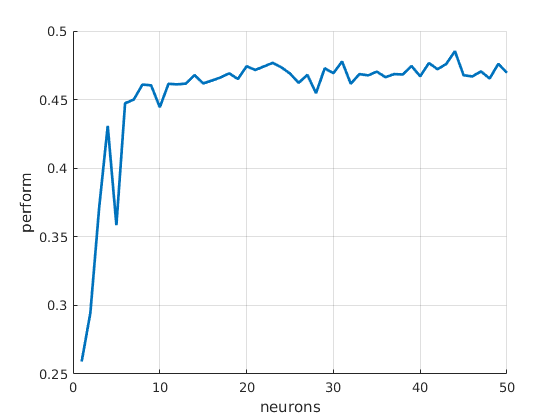
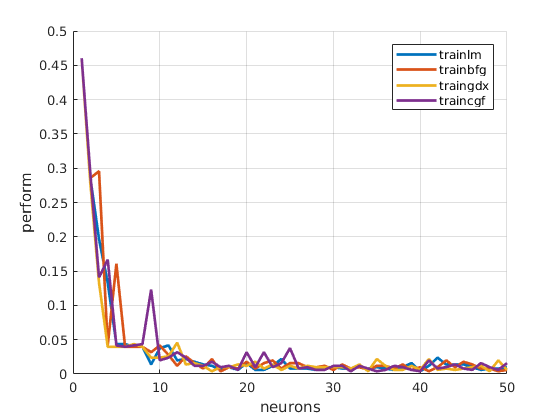
defuq

diff --git a/lab3/report/lab3.tex b/lab3/report/lab3.tex
@@ -276,7 +276,7 @@ E = \begin{bmatrix}
 			\code{delta = 0.01} \\
 			\code{gama = 0.1} \\
 			\code{low_lim = 0.1} \\
-			\code{up_lim = 0.5} \\
+			\code{up_lim = 0.8} \\
 			\code{max_step = 100} \\
 			\code{min_step = 1.0e-6} \\
 			\code{bmax = 26} \\
@@ -360,7 +360,7 @@ E = \begin{bmatrix}
 
 Для разных функций обучения (\code{trainlm}, \code{trainbfg}, \code{traingdx}, \code{traincgf}) определим оптимальное число нейронов в скрытом слое (слоях), настройте параметры функций обучения, обучите НС, вычислим ошибку классфификации.
 
-На рис. \ref{fig:3_2_1} изображена зависимость ошибки от числа нейронов в скрытом слое.
+На рис. \ref{fig:3_2_1} изображена зависимость ошибки от числа нейронов в скрытом слое для различных функций обучения.
 \begin{figure}[H]
 \begin{center}
 	\includegraphics[scale=0.88]{3_2_1}
@@ -368,43 +368,102 @@ E = \begin{bmatrix}
 	\label{fig:3_2_1}
 \end{center}
 \end{figure}
-
+Из графика видно, что оптимальным для каждой функции обучения является около $30$ нейронов. Будем изменять параметры функций обучения при этом количестве нейронов во внутреннем слое. На рис. В таблице \ref{fig:3_2} приведены примеры получаемых разбиений. 
+\begin{figure}[H]
+\begin{center}
+	\begin{subfigure}[b]{0.49\textwidth}
+		\includegraphics[width=1\textwidth, height=6cm]{3_2_2}
+		\caption{Хорошее}
+	\end{subfigure}
+	\begin{subfigure}[b]{0.49\textwidth}
+		\includegraphics[width=1\textwidth, height=6cm]{3_2_3}
+		\caption{Плохое}
+	\end{subfigure}
+	\caption{Примеры разбиений}
+	\label{fig:3_2}
+\end{center}
+\end{figure}
+В таблице \ref{tab:3_2_1} приведены сводные результаты для разных алгоритмов обучения.
 \begin{table}[H]
 \begin{center}
 	\def\tabcolsep{15pt}
-	\caption{Градиентные алгоритмы}
-	\label{tab:2_6_1}
+	\caption{Различные функции обучения}
+	\label{tab:3_2_1}
 	\begin{tabular}{|c|c|c|c|}
 		\hline
 		Функция & Параметры & Ошибка & Число эпох \\
 		\hline
 		\hline
-		\code{traingda} & \makecell{
-			\code{lr = 0.01} \\ 
-			\code{lr_inc = 1.05} \\ 
-			\code{lr_dec = 0.7} \\
-			\code{max_perf_inc  = 1.04}} & 0.0059 & 132 \\
+		\code{trainlm} & \makecell{
+			\code{mu = 0.01} \\ 
+			\code{mu_dec = 0.01} \\ 
+			\code{mu_inc = 100} \\
+			\code{mu_max = 1e10}} & 0.0079 & 66 \\
 		\hline
-		\code{traingdm} & \makecell{
-			\code{lr = 0.02} \\ 
-			\code{mc = 0.8}} & 0.0106 & 2000 \\
+		\code{trainbfg} & \makecell{
+			\code{searchFcn = 'srchbac'} \\
+			\code{scale_tol = 20} \\
+			\code{alpha = 0.01} \\
+			\code{beta = 0.1} \\
+			\code{delta = 0.01} \\
+			\code{gama = 0.1} \\
+			\code{low_lim = 0.2} \\
+			\code{up_lim = 0.5} \\
+			\code{max_step = 100} \\
+			\code{min_step = 1.0e-6} \\
+			\code{bmax = 26} \\
+			\code{batch_frag = 0}} & 0.0040 & 61 \\
 		\hline
 		\code{traingdx} & \makecell{
-			\code{lr = 0.01} \\ 
-			\code{mc = 0.8} \\
-			\code{lr_inc = 1.05} \\ 
-			\code{lr_dec = 0.7} \\
-			\code{max_perf_inc  = 1.02}} & 0.0017 & 175 \\
+			\code{lr = 0.05} \\
+			\code{mc = 0.5} \\
+			\code{lr_inc = 1.1} \\
+			\code{lr_dec = 0.8} \\
+			\code{max_perf_inc  = 1.02}} & 0.0037 & 53 \\
 		\hline
-		\code{trainrp} & \makecell{
-			\code{delt_inc = 1.2} \\
-			\code{delt_dec = 0.5} \\
-			\code{delta0 = 0.5} \\
-			\code{deltamax = 50.0}} & 0.0041 & 51 \\
+		\code{traincgf} & \makecell{
+			\code{searchFcn = 'srchbre'} \\
+			\code{scale_tol = 50} \\
+			\code{alpha = 0.05} \\
+			\code{beta = 0.5} \\
+			\code{delta = 0.01} \\
+			\code{gama = 0.5} \\
+			\code{low_lim = 0.2} \\
+			\code{up_lim = 0.5} \\
+			\code{max_step = 100} \\
+			\code{min_step = 1.0e-6} \\
+			\code{bmax = 56} \\
+			\code{batch_frag = 0}} & 0.0040 & 73 \\
 		\hline
 	\end{tabular}
 \end{center}
 \end{table}
+
+Из таблицы видно, что все алгоритмы смогли достичь ошибки $\sim 10^{-3}$, но наилучших результатов удалось добиться с помощью функции \code{traingdx}.
+
+\subsection{Функция производительности}
+
+Изменим выходной слой НС на \code{softmax}, функцию производительности на \code{crossentropy}, функцию обучения \code{trainscg}. Обучим НС, подобрав наилучшее сочетание остальных параметров.
+
+\lstinputlisting[linerange={15-30}]{lab3_3_2.m}
+
+На рис. \ref{fig:3_3} приведены примеры получаемых разбиений. Очевидно, что у нейронной сети не получается с достаточной точностью разбить плоскость на классы. Получаемая ошибка на тестовой выборке $\geq 15$.
+\begin{figure}[H]
+\begin{center}
+	\begin{subfigure}[b]{0.49\textwidth}
+		\includegraphics[width=\textwidth, height=6cm]{3_3_1}
+		\caption{Хорошее}
+	\end{subfigure}
+	\begin{subfigure}[b]{0.49\textwidth}
+		\includegraphics[width=\textwidth, height=6cm]{3_3_2}
+		\caption{Плохое}
+	\end{subfigure}
+	\caption{Примеры разбиений}
+	\label{fig:3_3}
+\end{center}
+\end{figure}
+
+\subsection{Передаточная функция выходного слоя}
 
 \section{Выводы}
 

diff --git a/lab3/code/matlab/set_train_param.m b/lab3/code/matlab/set_train_param.m
@@ -1,7 +1,7 @@
 function net = set_train_param(net, type_train_func)
     trainf_fcns = {'traingd','traingda', 'traingdm', 'traingdx', 'trainrp'... % 1-5
         'traincgf', 'traincgb', 'traincgp', 'trainscg',... % 6-9
-        'trainlm', 'trainbfg', 'trainoss', 'trainbr' };   % 10-13
+        'trainlm', 'trainbfg', 'trainoss', 'trainbr'};   % 10-13
     net.trainfcn = trainf_fcns{type_train_func};        % Функция обучения
 
     trainParam = net.trainParam;
@@ -36,11 +36,11 @@ function net = set_train_param(net, type_train_func)
                                                     % При mc=0 traingdm переходит в traingd
         case 4
             % traingx - Градиентный спуск c адаптацией и моментом
-            trainParam.lr = 0.01;               % !Скорость обучения (изначальная)
-            trainParam.mc = 0.8;                % !Момент инерции
-            trainParam.lr_inc = 1.05;           % !Коэффициент увеличения скорости обучения
-            trainParam.lr_dec = 0.7;            % !Коэффициент уменьшения скорости обучения
-            trainParam.max_perf_inc  = 1.02;    % !Допустимый коэффициент изменения ошибки 
+            trainParam.lr = 0.05;               % !Скорость обучения (изначальная)
+            trainParam.mc = 0.6;                % !Момент инерции
+            trainParam.lr_inc = 1.1;           % !Коэффициент увеличения скорости обучения
+            trainParam.lr_dec = 0.8;            % !Коэффициент уменьшения скорости обучения
+            trainParam.max_perf_inc  = 1.2;    % !Допустимый коэффициент изменения ошибки 
         case 5
             % trainrp
             trainParam.lr = 0.01;               % !Скорость обучения (изначальная)
@@ -54,19 +54,19 @@ function net = set_train_param(net, type_train_func)
             if ~isempty(find(type_train_func == [6 7 8], 1))
                 trainParam.searchFcn = 'srchcha';   % !Функция одномерного линейного поиска (srchbac, srchbre, srchgol, srchhyb)
             else
-                trainParam.searchFcn = 'srchbac';   % !Функция одномерного линейного поиска (srchbac, srchbre, srchgol, srchhyb)
+                trainParam.searchFcn = 'srchbre';   % !Функция одномерного линейного поиска (srchbac, srchbre, srchgol, srchhyb)
             end
             % Параметры функции одномерного поиска
-            trainParam.scale_tol = 20;         % Divide into delta to determine tolerance for linear search.
-            trainParam.alpha = 0.001;           % Scale factor that determines sufficient reduction in perf
-            trainParam.beta = 0.1;              % Scale factor that determines sufficiently large step size
+            trainParam.scale_tol = 50;         % Divide into delta to determine tolerance for linear search.
+            trainParam.alpha = 0.05;           % Scale factor that determines sufficient reduction in perf
+            trainParam.beta = 0.5;              % Scale factor that determines sufficiently large step size
             trainParam.delta = 0.01;            % Initial step size in interval location step
-            trainParam.gama = 0.1;              % Parameter to avoid small reductions in performance, usually set to 0.1 (see srch_cha)
-            trainParam.low_lim = 0.1;           % Lower limit on change in step size
-            trainParam.up_lim = 0.8;             % Upper limit on change in step size
+            trainParam.gama = 0.5;              % Parameter to avoid small reductions in performance, usually set to 0.1 (see srch_cha)
+            trainParam.low_lim = 0.2;           % Lower limit on change in step size
+            trainParam.up_lim = 0.5;             % Upper limit on change in step size
             trainParam.max_step = 100;           % Maximum step length
             trainParam.min_step = 1.0e-6;        % Minimum step length
-            trainParam.bmax = 26;               % Maximum step size
+            trainParam.bmax = 56;               % Maximum step size
             if type_train_func == 11
                 trainParam.batch_frag = 0;          % In case of multiple batches, they are considered independent. Any nonzero value implies a fragmented batch, so the final layer's conditions of a previous trained epoch are used as initial conditions for the next epoch.
             end
@@ -80,9 +80,9 @@ function net = set_train_param(net, type_train_func)
         case {10, 13}
             % trainlm, trainbr
             % Параметры алгоритма (для поиска значения mu)
-            trainParam.mu = 0.001;              % Initial mu
-            trainParam.mu_dec = 0.1;            % mu decrease factor
-            trainParam.mu_inc = 10;             % mu increase factor
+            trainParam.mu = 0.01;              % Initial mu
+            trainParam.mu_dec = 0.01;            % mu decrease factor
+            trainParam.mu_inc = 100;             % mu increase factor
             trainParam.mu_max = 1e10;           % Maximum mu
     end
     net.trainParam = trainParam;

diff --git a/lab3/code/matlab/lab3_3_1.m b/lab3/code/matlab/lab3_3_1.m
@@ -2,17 +2,21 @@ close all;
 load('3.mat');
 T = double(T);
 
-net = init_ff(P, T, 20);
-
 [trainIdx, testIdx] = dividerand(length(P), 0.7, 0.3, 0);
 
-%plot_train_and_test(P, T, trainIdx, testIdx);
+plot_train_and_test(P, T, trainIdx, testIdx);
 
-%[Y, Q] = range_hidden_neurons(50, P, T, trainIdx, testIdx);
+Q_all = zeros(4, 50);
+[~, Q_all(4,:)] = range_hidden_neurons(50, P, T, trainIdx, testIdx);
 
-%plot_quality(Q);
+plot_quality(Q_all);
 
-plot_classes(P, Y(20,:));
+net = init_ff(P, T, 10);s
+net = train(net, P(trainIdx,:)', T(trainIdx)');
+Y = sim(net, P(testIdx,:)') > 0.5;
+err = perform(net, T(testIdx)', Y)
+
+plot_classes(P, sim(net, P') > 0.5);
 
 function [Y, Q] = range_hidden_neurons(N, P, T, trainIdx, testIdx)
     Q = zeros(1, N);
@@ -20,8 +24,8 @@ function [Y, Q] = range_hidden_neurons(N, P, T, trainIdx, testIdx)
     for i = 1 : N
         net = init_ff(P, T, i);
         net = train(net, P(trainIdx,:)', T(trainIdx)');
-        y = sim(net, P(testIdx,:)') > 0;
-        Y(i,:) = sim(net, P') > 0;
+        y = sim(net, P(testIdx,:)') > 0.5;
+        Y(i,:) = sim(net, P') > 0.5;
         Q(i) = perform(net, T(testIdx)', y);
     end
 end
@@ -31,11 +35,12 @@ function net = init_ff(P, T, N)
     net.inputs{1}.size = 2;
     net.layers{2}.size = 1;
     net = init(net);
-    net.trainParam.epochs = 1000;
-    net.trainParam.time = Inf;
-    net.trainParam.goal = 0;
-    net.trainParam.min_grad = 1e-05;
-    net.trainParam.max_fail = 15;
+    type_train_func = 6;    % Функция обучения: 
+    %1-traingd, 2-traingda, 3-traingdm, 4-traingdx, 5-trainrp, 
+    %6-traincgf, 7-traincgb, 8-traincgp, 9-trainscg, 10-trainlm, 
+    %11-trainbfg, 12-trainoss, 13-trainbr
+
+    set_train_param(net, type_train_func);
 end
 
 function plot_train_and_test(P, T, trainIdx, testIdx)
@@ -60,11 +65,14 @@ function plot_classes(P, Y)
     axis([0 1 0 1]);
 end
 
-function plot_quality(Q)
+function plot_quality(Q_all)
     figure;
     hold on;
     grid on;
-    plot(1:length(Q), Q, 'linewidth', 2)
+    for i = 1 : size(Q_all, 1)
+        plot(1:length(Q_all(i,:)), Q_all(i,:), 'linewidth', 2);
+    end
+    legend('trainlm', 'trainbfg', 'traingdx', 'traincgf');
     xlabel('neurons'); 
     ylabel('perform');
 end

diff --git a/lab3/report/settings.tex b/lab3/report/settings.tex
@@ -16,7 +16,7 @@
 \usepackage{askmaps}
 \usepackage{pgfplots}
 \usepackage{multicol}
-\usepackage{titlesec}
+%\usepackage{titlesec}
 \usepackage{listings}
 \usepackage{color}
 \usepackage{enumitem}
@@ -25,7 +25,6 @@
 
 \setitemize{itemsep=0em}
 \setenumerate{itemsep=0em}
-
 
 \definecolor{green}{rgb}{0,0.6,0}
 \definecolor{gray}{rgb}{0.5,0.5,0.5}
@@ -55,14 +54,14 @@
 	tabsize=4,
 	frame=single,
 	inputpath={../code/matlab},
-	literate={~}{$\sim$}{1}%
+	literate={~}{с}{1}%
 }
 
-\titleformat*{\section}{\large\bfseries} 
-\titleformat*{\subsection}{\normalsize\bfseries} 
-\titleformat*{\subsubsection}{\normalsize\bfseries} 
-\titleformat*{\paragraph}{\normalsize\bfseries} 
-\titleformat*{\subparagraph}{\normalsize\bfseries} 
+%\titleformat*{\section}{\large\bfseries} 
+%\titleformat*{\subsection}{\normalsize\bfseries} 
+%\titleformat*{\subsubsection}{\normalsize\bfseries} 
+%\titleformat*{\paragraph}{\normalsize\bfseries} 
+%\titleformat*{\subparagraph}{\normalsize\bfseries} 
 
 \counterwithin{figure}{section}
 \counterwithin{equation}{section}
@@ -72,7 +71,7 @@
 \captionsetup{justification=centering,margin=1cm}
 \def\arraystretch{1.3}
 \setlength\parindent{5ex}
-\titlelabel{\thetitle.\quad}
+%\titlelabel{\thetitle.\quad}
 
 \renewcommand{\le}{\ensuremath{\leqslant}}
 \renewcommand{\leq}{\ensuremath{\leqslant}}

diff --git a/lab3/code/matlab/lab3_3_2.m b/lab3/code/matlab/lab3_3_2.m
@@ -1,0 +1,40 @@
+close all;
+load('3.mat');
+P = P;
+T = double(T);
+
+[trainIdx, testIdx] = dividerand(length(P), 0.7, 0.3, 0);
+
+net = init_ff(P, T, 30);
+net = train(net, P(trainIdx,:)', T(trainIdx)');
+Y = sim(net, P(testIdx,:)') > 0.5;
+err = perform(net, T(testIdx,:)', Y)
+
+plot_classes(P, sim(net, P') > 0.5)
+
+function net = init_ff(P, T, N)
+    net = newff(P, T, N);
+    net.inputs{1}.size = 2;
+    net.layers{2}.size = 1;
+    net.layers{2}.transferFcn = 'softmax';
+    net.performFcn = 'crossentropy';
+    net.trainFcn = 'trainscg';
+    net.trainParam.sigma = 1e-4;
+    net.trainParam.lambda = 1e-2;
+    net.trainParam.epochs = 2000;
+    net.trainParam.time = Inf;
+    net.trainParam.goal = 0;
+    net.trainParam.min_grad = 1e-05;
+    net.trainParam.max_fail = 10;
+    net = init(net);
+end
+
+function plot_classes(P, Y)
+    figure;
+    hold on;
+    grid on;
+    gscatter(P(:,1), P(:,2), Y, 'br', 'ox');
+    xlabel('x1'); 
+    ylabel('x2');
+    axis([0 1 0 1]);
+end
